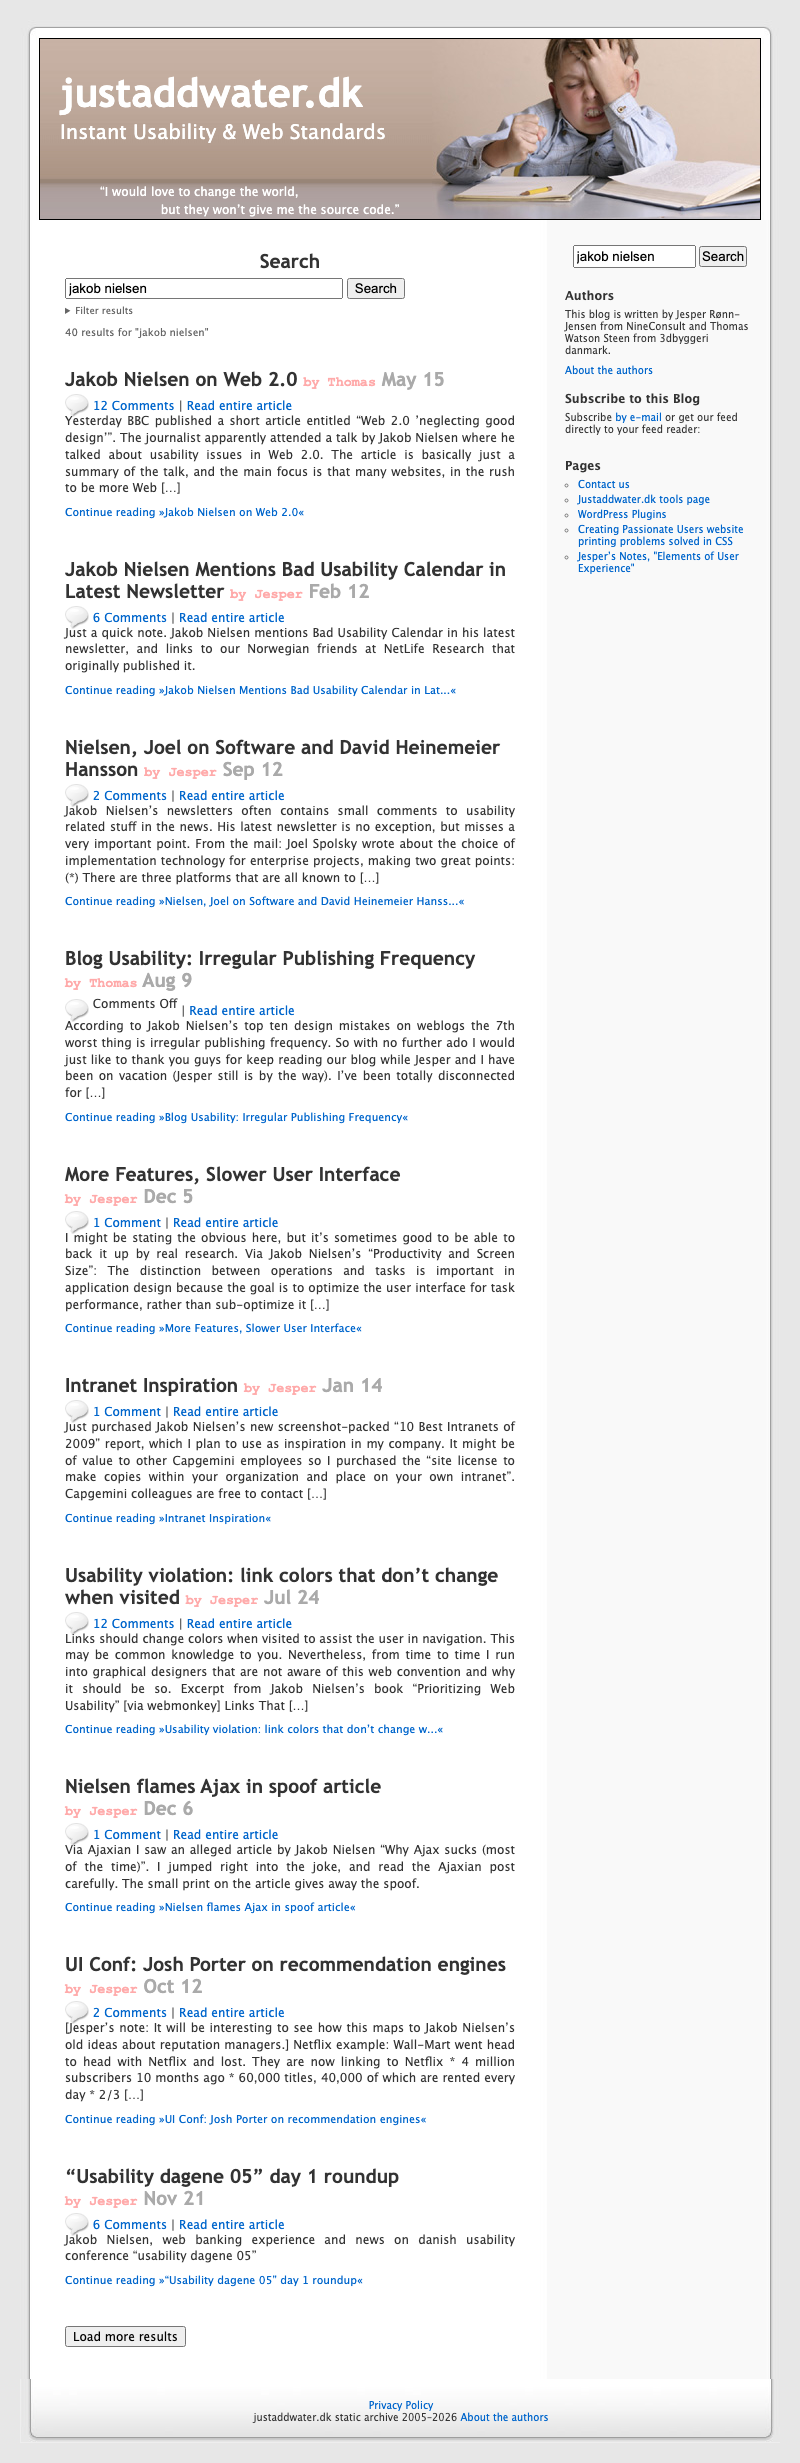
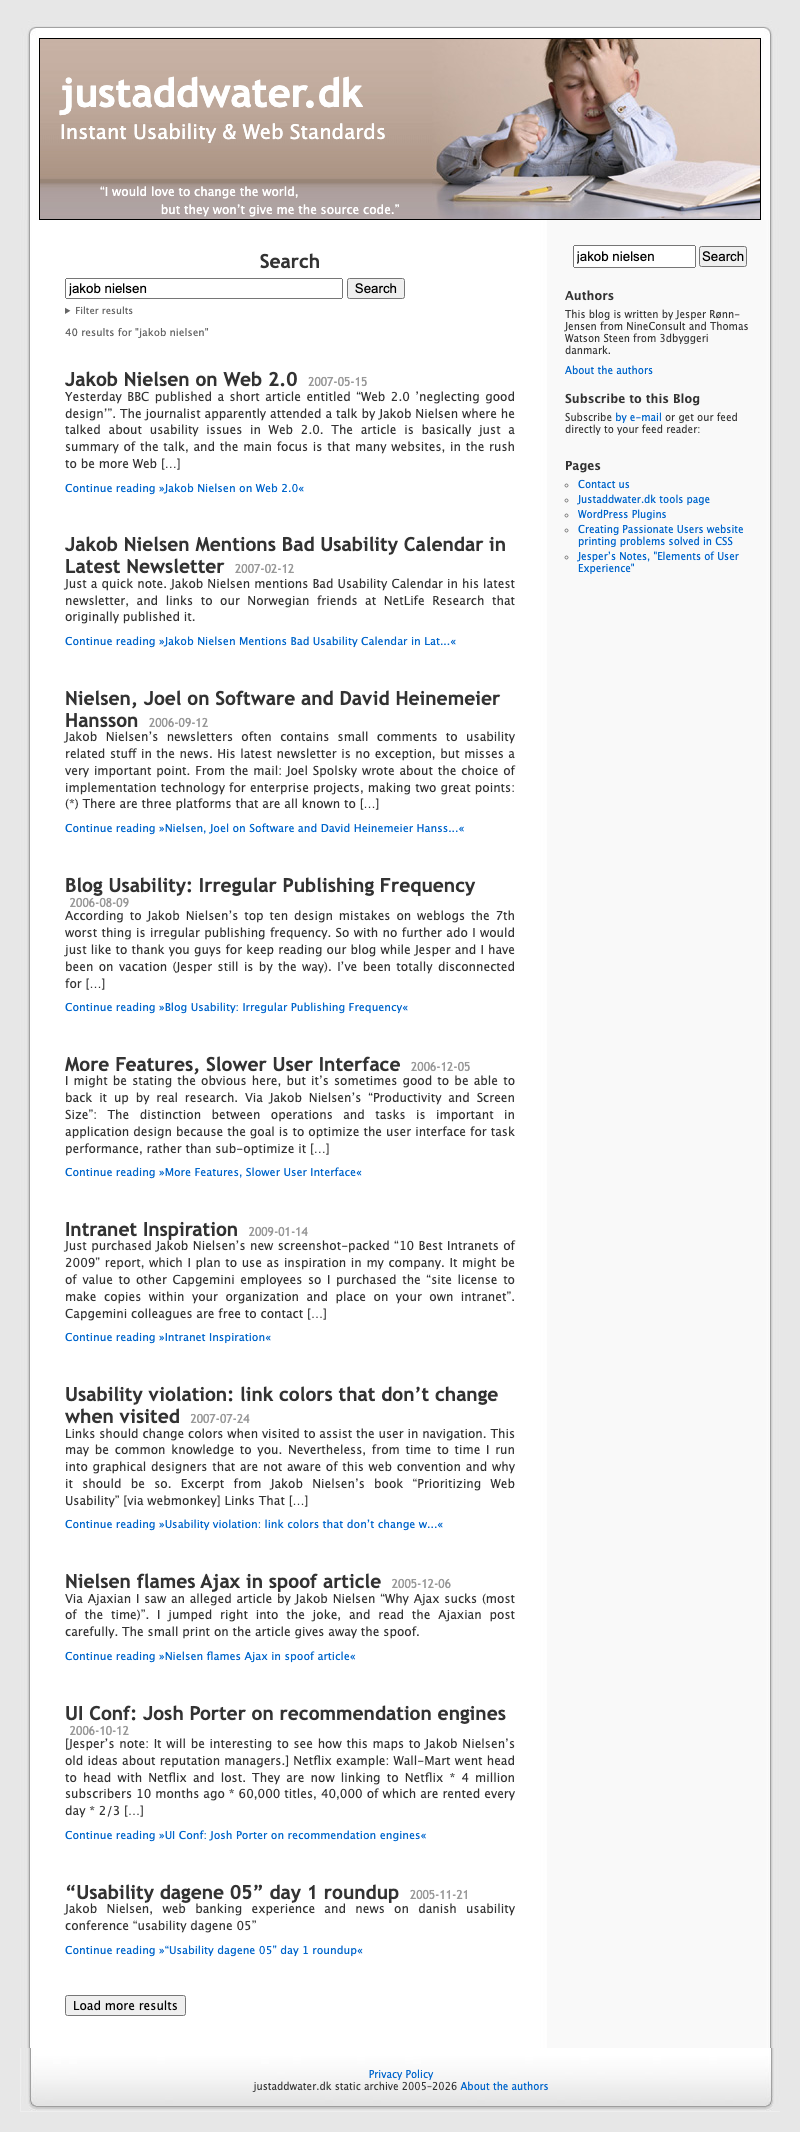
feat: search results without comment line and byline, ISO date beside title, bold selected facet; recapture page 45

Changed region(s): [[0.0312, 0.0, 0.9688, 0.9597], [0.3125, 0.9597, 0.6875, 0.9906]]

diff --git a/layouts/_default/search.html b/layouts/_default/search.html
@@ -31,10 +31,7 @@ function writeUrl(push) {
 }
 function post(m, url, title) {
   const short = title.length > 52 ? title.slice(0, 52) + '...' : title;
-  const n = +m.comments;
-  const cm = n === 0 ? '<span>Comments Off</span>' : `<a href="${esc(url)}#comments">${n} Comment${n !== 1 ? 's' : ''}</a>`;
-  return `<div class="post"><h2><a href="${esc(url)}" rel="bookmark" title="Permanent Link to ${esc(title)}">${esc(title)}</a> <span class="nowrap"><span class="author">by ${esc(m.author)}</span> <span class="time">${esc(m.short)}</span></span></h2>
-<div class="postmenu"><img src="/images/comment.gif" width="24" height="23" alt=""> <span>${cm} | <a href="${esc(url)}" rel="bookmark">Read entire article</a></span></div>
+  return `<div class="post"><h2><a href="${esc(url)}" rel="bookmark" title="Permanent Link to ${esc(title)}">${esc(title)}</a> <span class="sp-date">${esc(m.date)}</span></h2>
 <div class="entry">${m.excerpt}<p class="continue-reading"><a href="${esc(url)}" rel="bookmark">Continue reading &raquo;${esc(short)}&laquo;</a></p></div></div>`;
 }
 async function more() {

diff --git a/assets/site.css b/assets/site.css
@@ -739,3 +739,6 @@ a img {
 .sp-group{margin:.3em 0}.sp-filters a.on{font-weight:bold;color:#333}
 .sp-status{font-size:.85em;color:#666}
 .sp-more{font:inherit}
+.sp-date{font-size:12px;font-weight:normal;color:#999;white-space:nowrap;margin-left:.4em}
+#sp-results .post h2{margin-bottom:.3em}
+.sp-filters a.on,.sp-filters a.on:visited{font-weight:bold;color:#333;text-decoration:none}
